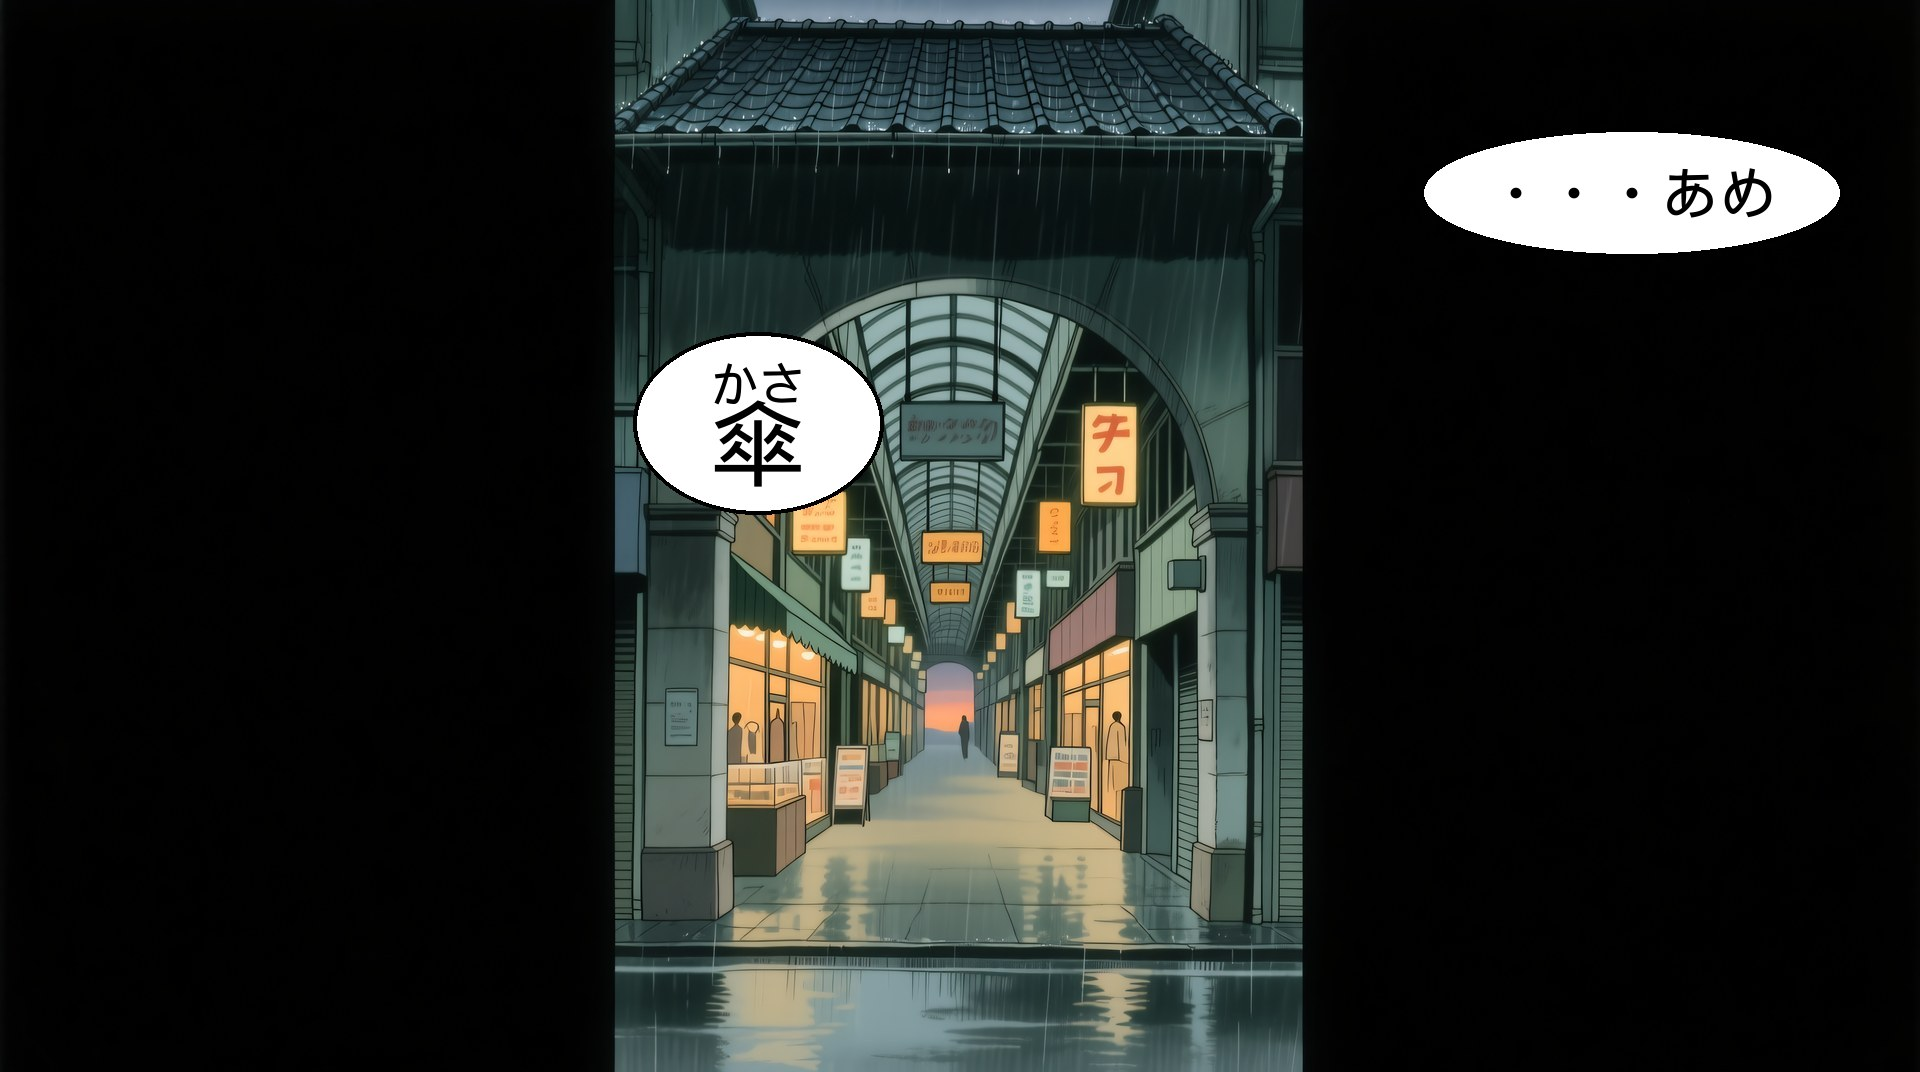
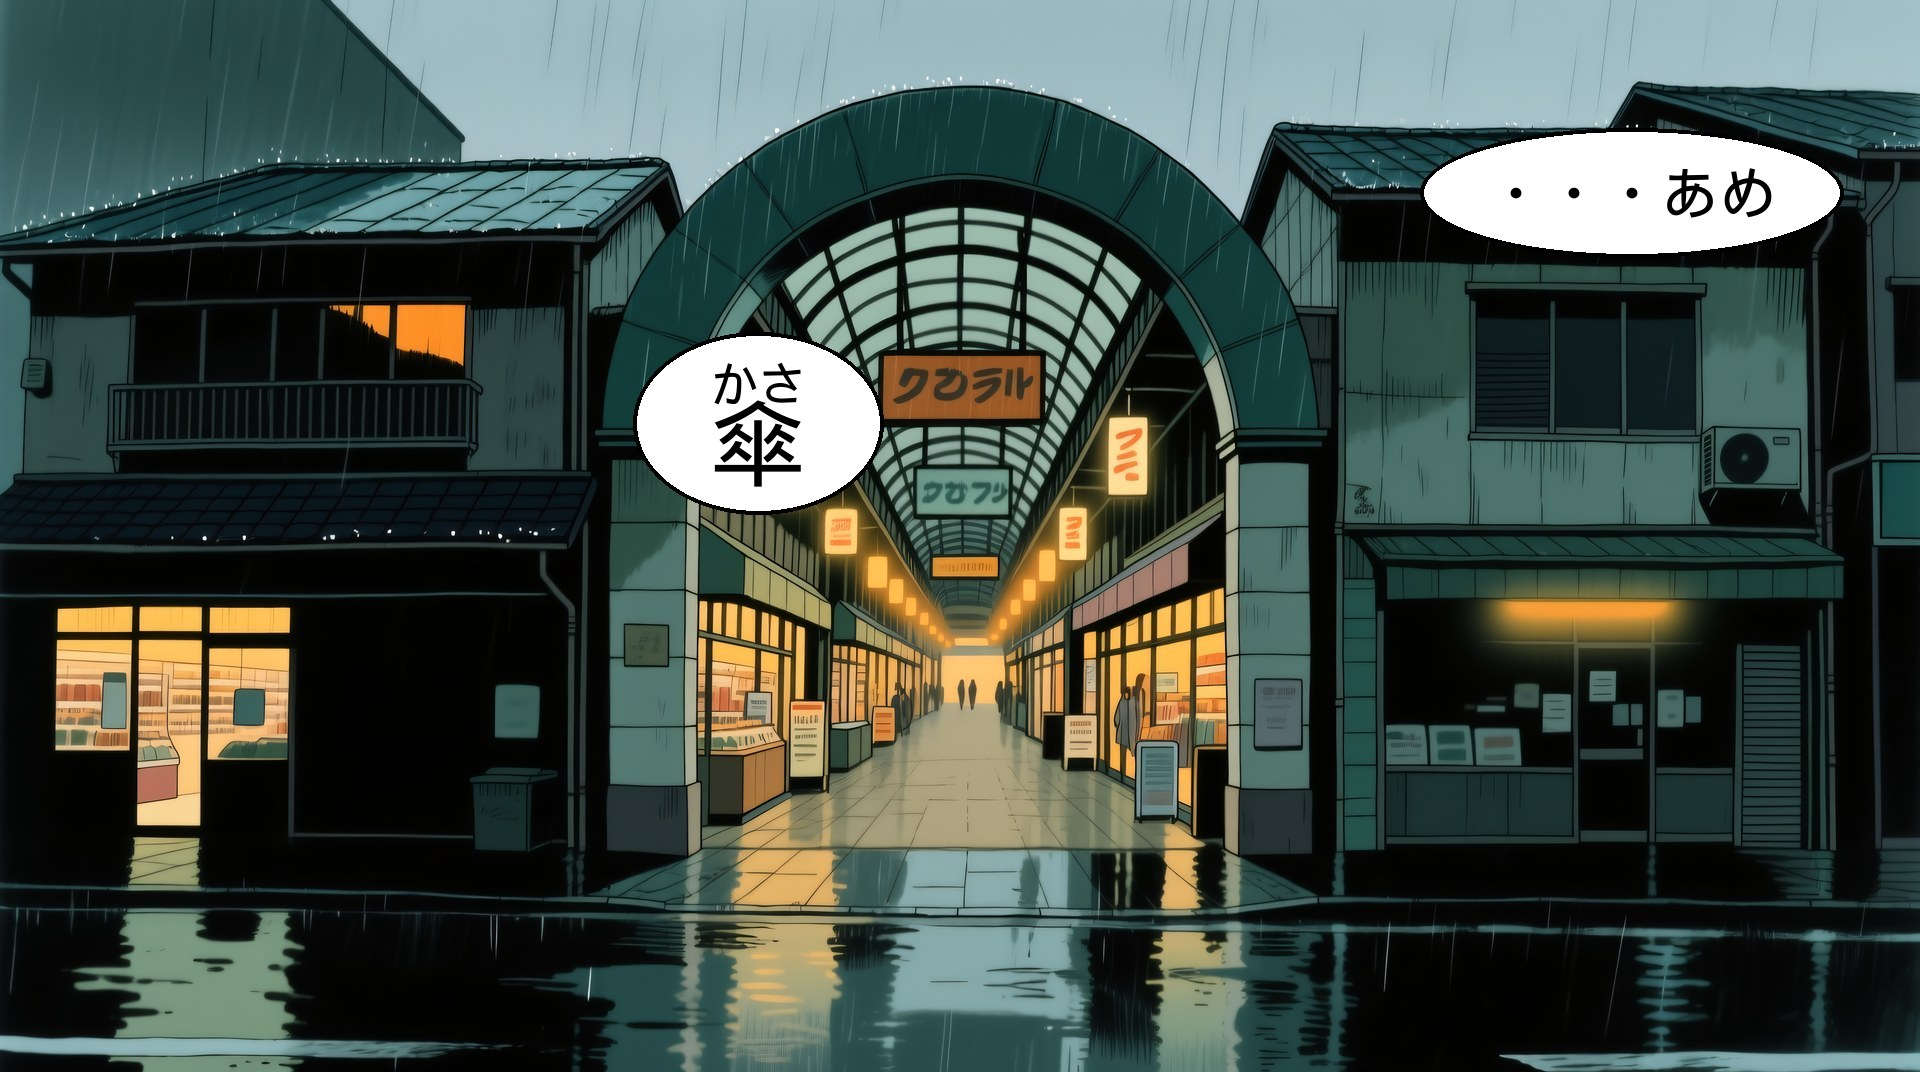
fix(comic): p04 quer ohne schwarze Seitenstreifen nachgerendert (Seed 707)
Uli 29.9.: „Ja, nachrendern". Die alte Fassung (Seed 701) hatte eine
Hochkomposition in der Querleinwand mit 64 % schwarzen Seitenstreifen.
Neuer Foto-Pass mit Anti-Balken-Prompt (Fassade füllt den Rahmen von
Kante zu Kante, neg=black bars/letterbox/…), drei Seeds 705–707, alle
sauber; 707 gepickt (symmetrischer Bogen, keine Passanten, klare
Schilder). Manga-Pass D70 + Vergrößerung + Lettering nur für dieses Bild.

- overrides_foto.txt: Reproduktionszeile p04_quer seed=707 core=… neg=…
- picks_foto.txt: p04_quer → s707
- picks_manga.txt: p04_quer → _00002_ (ComfyUI zählt in seinem eigenen
  Ausgabeordner weiter; Löschen in manga/ setzt den Zähler nicht zurück)
- README + overrides_manga.txt: Zähler-Regel korrigiert
- assets/story/folge01/p04.jpg: neu geletttert, Layout unverändert

check_bars build/f01_raw: alle 22 sauber (p04_quer 0.0). check_layout [].
Tests: folge_01_layout/panel_assets/regen grün (7).

Claude-Session: https://claude.ai/code/session_01V1Gjg1CbgsdmmmgtvPes7L

diff --git a/tool/comic/README.md b/tool/comic/README.md
@@ -173,10 +173,15 @@ flutter test test/features/story/folge_01_layout_test.dart test/features/story/f
 
 ## Regeln und Fallen
 
-- **Vor jedem Neu-Render die alte Ausgabe löschen.** ComfyUI zählt den Dateizähler hoch
-  (`_00001_` → `_00002_`), die alte Datei bleibt liegen, und die Skripte überspringen einen Key,
-  sobald irgendeine Datei mit seinem Präfix existiert. `comfy_client.run()` setzt das Präfix doppelt
-  in den Dateinamen (`p03_hoch_s704_p03_hoch_s704_00001_.png`) — beim Löschen mit `<prefix>_*` arbeiten.
+- **Vor jedem Neu-Render die alte Ausgabe löschen.** Die Skripte überspringen einen Key, sobald
+  irgendeine Datei mit seinem Präfix in `~/comfy_f01/<pass>/` liegt. `comfy_client.run()` setzt das
+  Präfix doppelt in den Dateinamen (`p03_hoch_s704_p03_hoch_s704_00001_.png`) — beim Löschen mit
+  `<prefix>_*` arbeiten.
+- **Der Dateizähler gehört ComfyUI, nicht uns.** `_00001_` → `_00002_` zählt ComfyUI in seinem
+  eigenen Ausgabeordner hoch; `comfy_client.run()` holt die Datei nur von dort ab. Löschen in
+  `~/comfy_f01/manga/` setzt den Zähler also NICHT zurück: ein Nachzug liefert `_00002_` (p06/p07 hoch
+  28.9., p04 quer 29.9.). Nach jedem Nachzug den neuen Namen in `picks_manga.txt` eintragen, sonst
+  bricht `folge01_finish.py` mit `FEHLT <key>` ab.
 - **Override ≠ Neu-Render.** Nur `force` (oder `force=1`) in der Override-Zeile erzwingt ihn.
 - **nohup per ssh:** immer `setsid nohup … </dev/null &` — ohne `</dev/null` hängt der ssh-Client,
   ohne `setsid` stirbt der Lauf mit der Verbindung.
